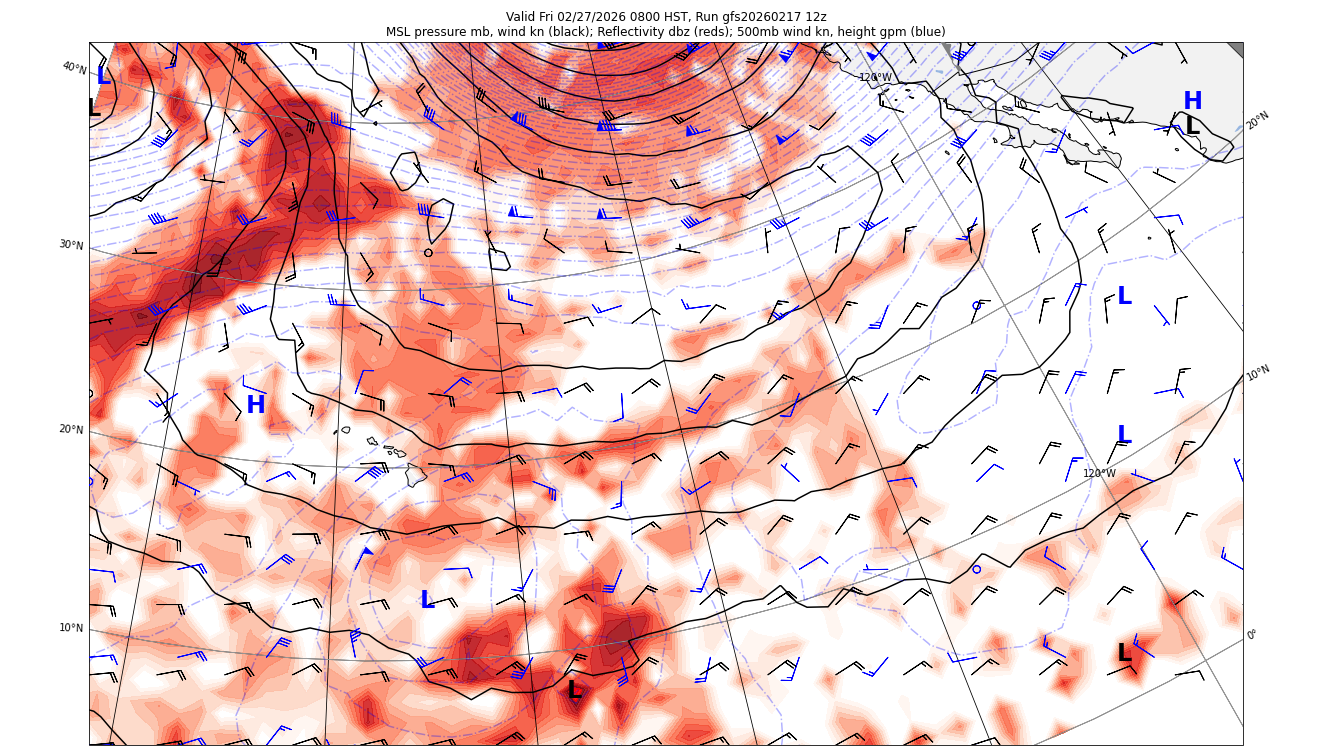
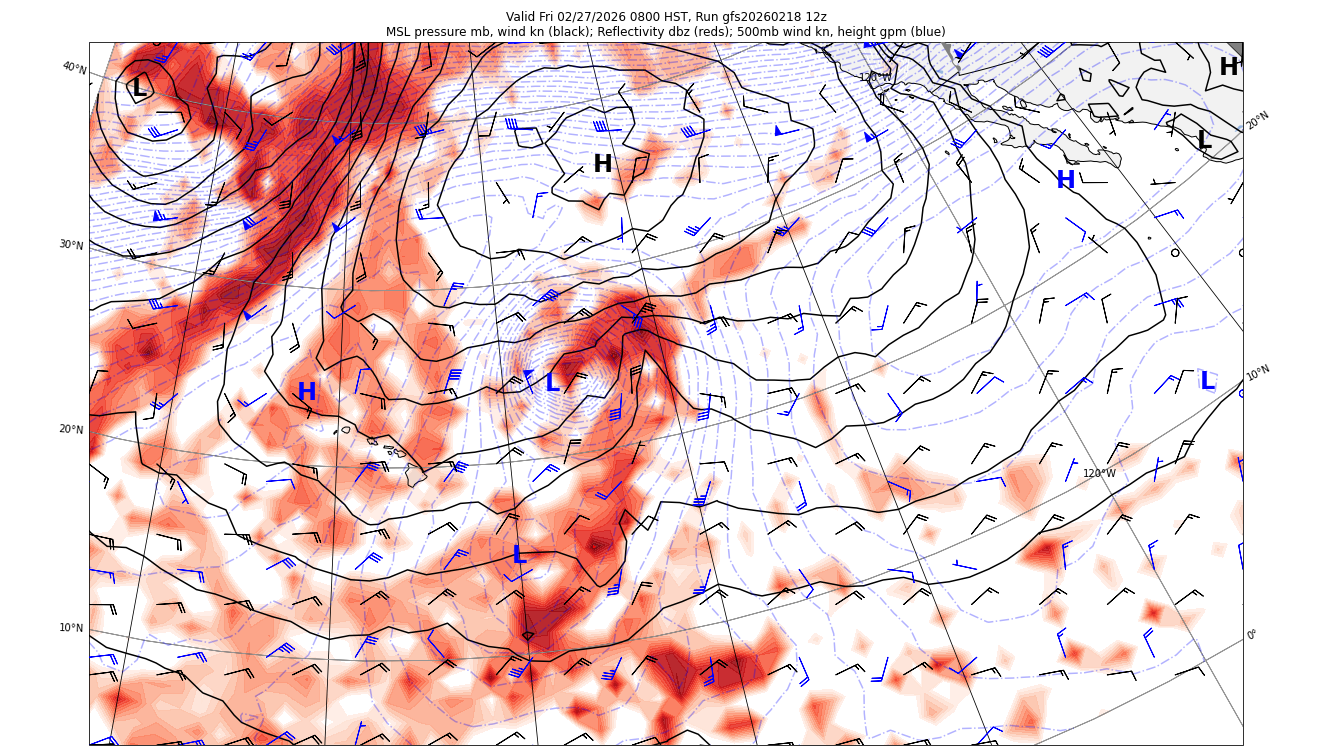
auto pi

diff --git a/index.html b/index.html
@@ -21,10 +21,9 @@
 </head>
 <body>
     <div class="imgbox">
-        <h1 style="text-align:center">GFS gfs20260217 12z</h1>
+        <h1 style="text-align:center">GFS gfs20260218 12z</h1>
         <br><img class="center-fit" src="storms.png" alt="Active Cyclones">
         <br><img class="center-fit" src="https://cdn.star.nesdis.noaa.gov/GOES18/GLM/SECTOR/tpw/EXTENT3/GOES18-TPW-EXTENT3-900x540.gif">
-        <br><img class="center-fit" src="202602171800.png" alt="202602171800.png">
         <br><img class="center-fit" src="202602181800.png" alt="202602181800.png">
         <br><img class="center-fit" src="202602191800.png" alt="202602191800.png">
         <br><img class="center-fit" src="202602201800.png" alt="202602201800.png">
@@ -40,6 +39,7 @@
         <br><img class="center-fit" src="202603021800.png" alt="202603021800.png">
         <br><img class="center-fit" src="202603031800.png" alt="202603031800.png">
         <br><img class="center-fit" src="202603041800.png" alt="202603041800.png">
+        <br><img class="center-fit" src="202603051800.png" alt="202603051800.png">
 		<br><img class="center-fit" src="https://www.weather.gov/images/hfo/graphics/npac.gif">
 		<br><img class="center-fit" src="https://www.nhc.noaa.gov/tafb_latest/USA_latest.gif">
     </div>
